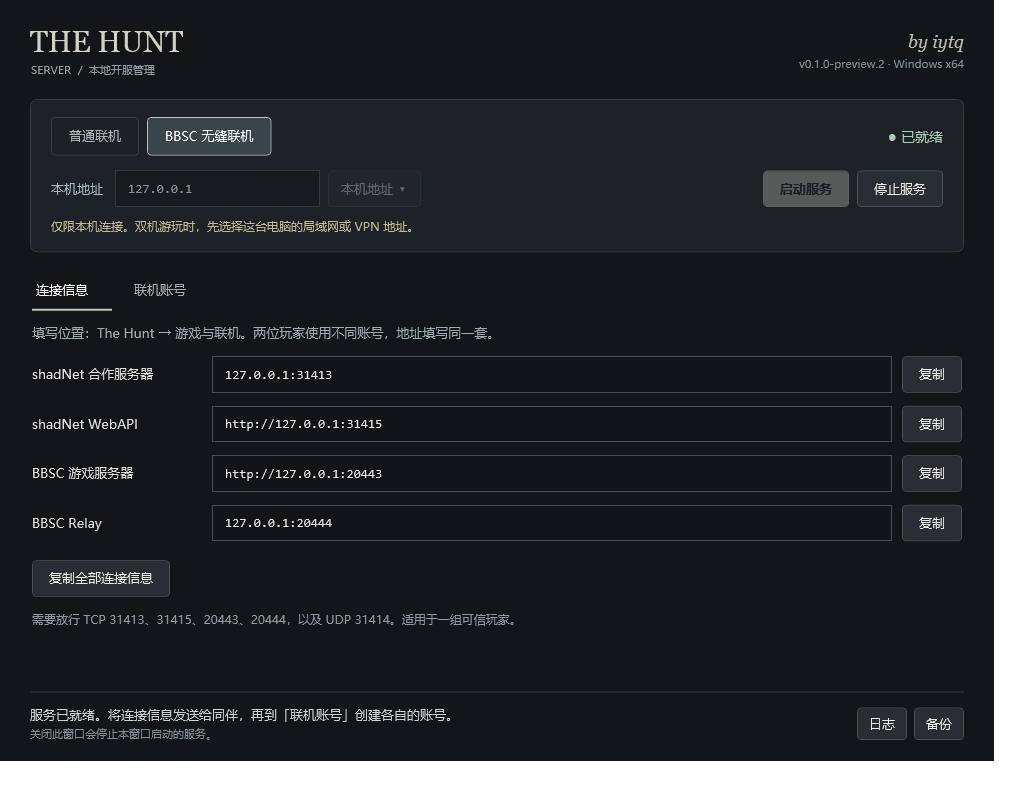
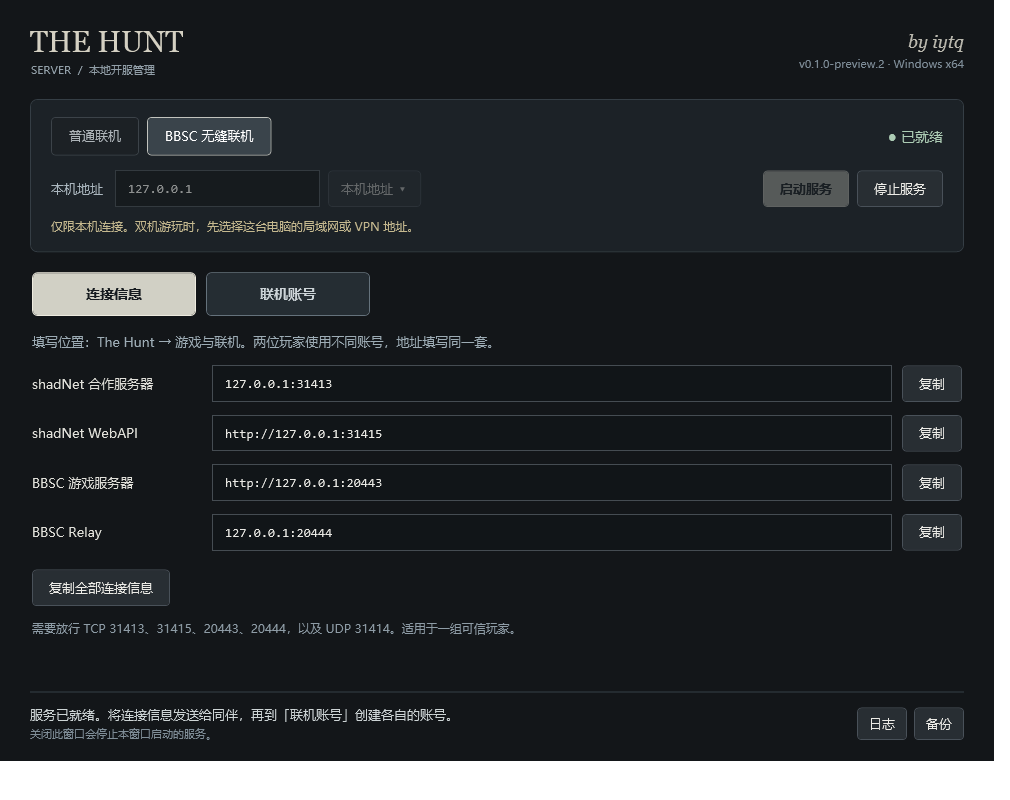
增强连接信息与联机账号页签的可见性和选中反馈

Changed region(s): [[0.0307, 0.3125, 0.9515, 0.8125]]

diff --git a/windows/gui/ServerWindow.xaml b/windows/gui/ServerWindow.xaml
@@ -66,12 +66,19 @@
     </Style>
     <Style TargetType="TabControl"><Setter Property="Background" Value="Transparent"/><Setter Property="BorderThickness" Value="0"/></Style>
     <Style TargetType="TabItem">
-      <Setter Property="Foreground" Value="#A8B1B7"/><Setter Property="Template"><Setter.Value><ControlTemplate TargetType="TabItem">
-        <Border x:Name="Frame" BorderBrush="Transparent" BorderThickness="0,0,0,2" Padding="4,10,24,10" Margin="0,0,18,12">
-          <ContentPresenter ContentSource="Header"/>
-        </Border><ControlTemplate.Triggers><Trigger Property="IsSelected" Value="True">
-          <Setter Property="Foreground" Value="#FFFFFF"/><Setter TargetName="Frame" Property="BorderBrush" Value="#C8C5B8"/>
-        </Trigger></ControlTemplate.Triggers>
+      <Setter Property="Foreground" Value="#CDD4D8"/><Setter Property="Cursor" Value="Hand"/>
+      <Setter Property="Template"><Setter.Value><ControlTemplate TargetType="TabItem">
+        <Border x:Name="Frame" Background="#252D33" BorderBrush="#65727C" BorderThickness="1" CornerRadius="5"
+                MinWidth="164" Padding="22,12" Margin="0,0,10,16">
+          <TextBlock Text="{TemplateBinding Header}" Foreground="{TemplateBinding Foreground}" FontSize="14" FontWeight="SemiBold" HorizontalAlignment="Center"/>
+        </Border><ControlTemplate.Triggers>
+          <Trigger Property="IsMouseOver" Value="True"><Setter TargetName="Frame" Property="BorderBrush" Value="#E5E2D7"/></Trigger>
+          <Trigger Property="IsSelected" Value="True">
+            <Setter Property="Foreground" Value="#161B1F"/><Setter TargetName="Frame" Property="Background" Value="#D1D0C5"/>
+            <Setter TargetName="Frame" Property="BorderBrush" Value="#EEEBDF"/>
+          </Trigger>
+          <Trigger Property="IsKeyboardFocusWithin" Value="True"><Setter TargetName="Frame" Property="BorderThickness" Value="2"/></Trigger>
+        </ControlTemplate.Triggers>
       </ControlTemplate></Setter.Value></Setter>
     </Style>
     <Style TargetType="DataGridColumnHeader"><Setter Property="Background" Value="#262E34"/><Setter Property="Foreground" Value="#C7CFD3"/>
